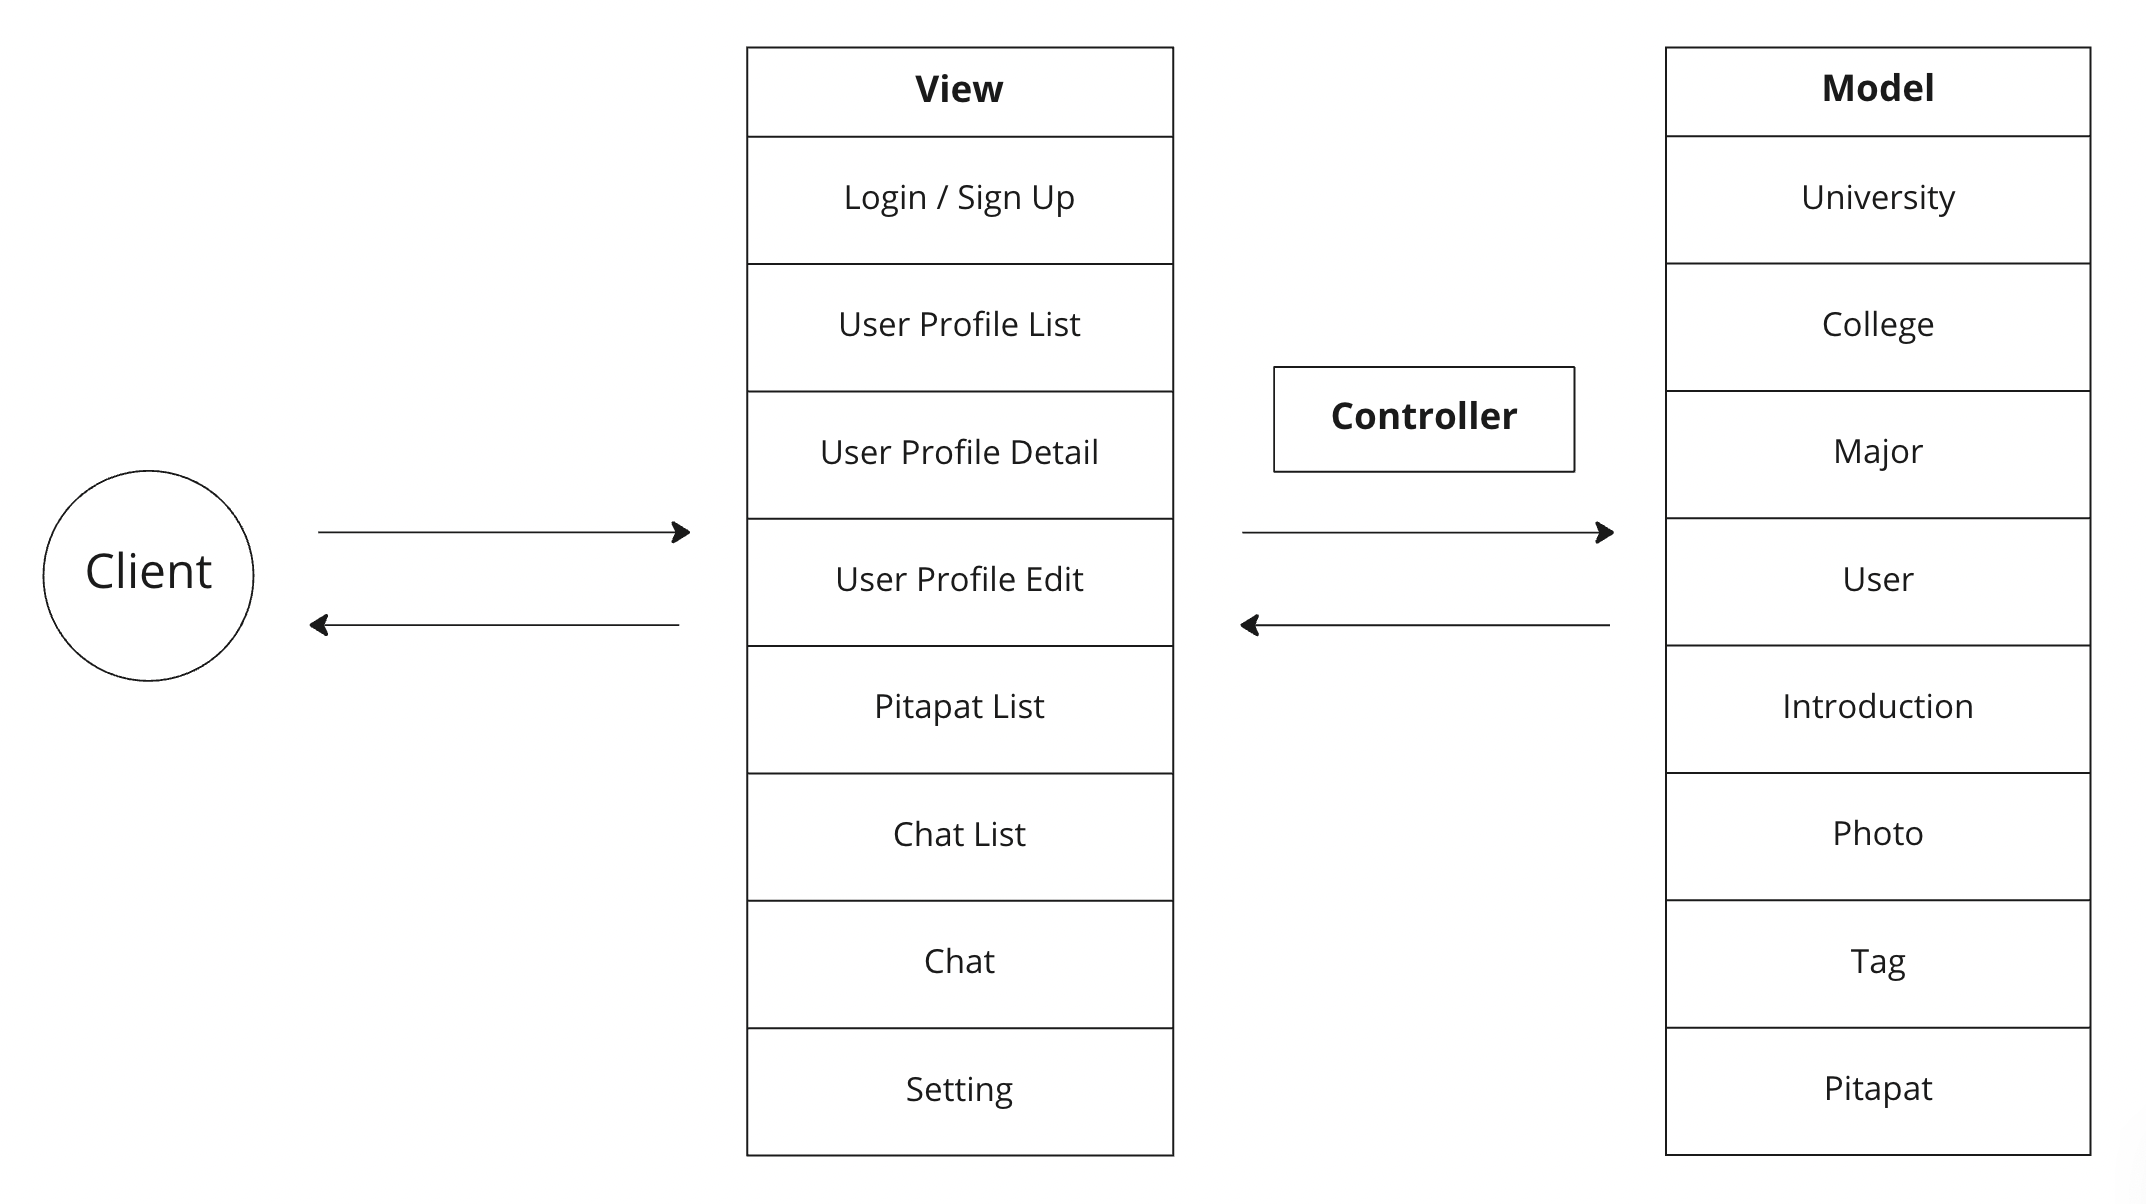
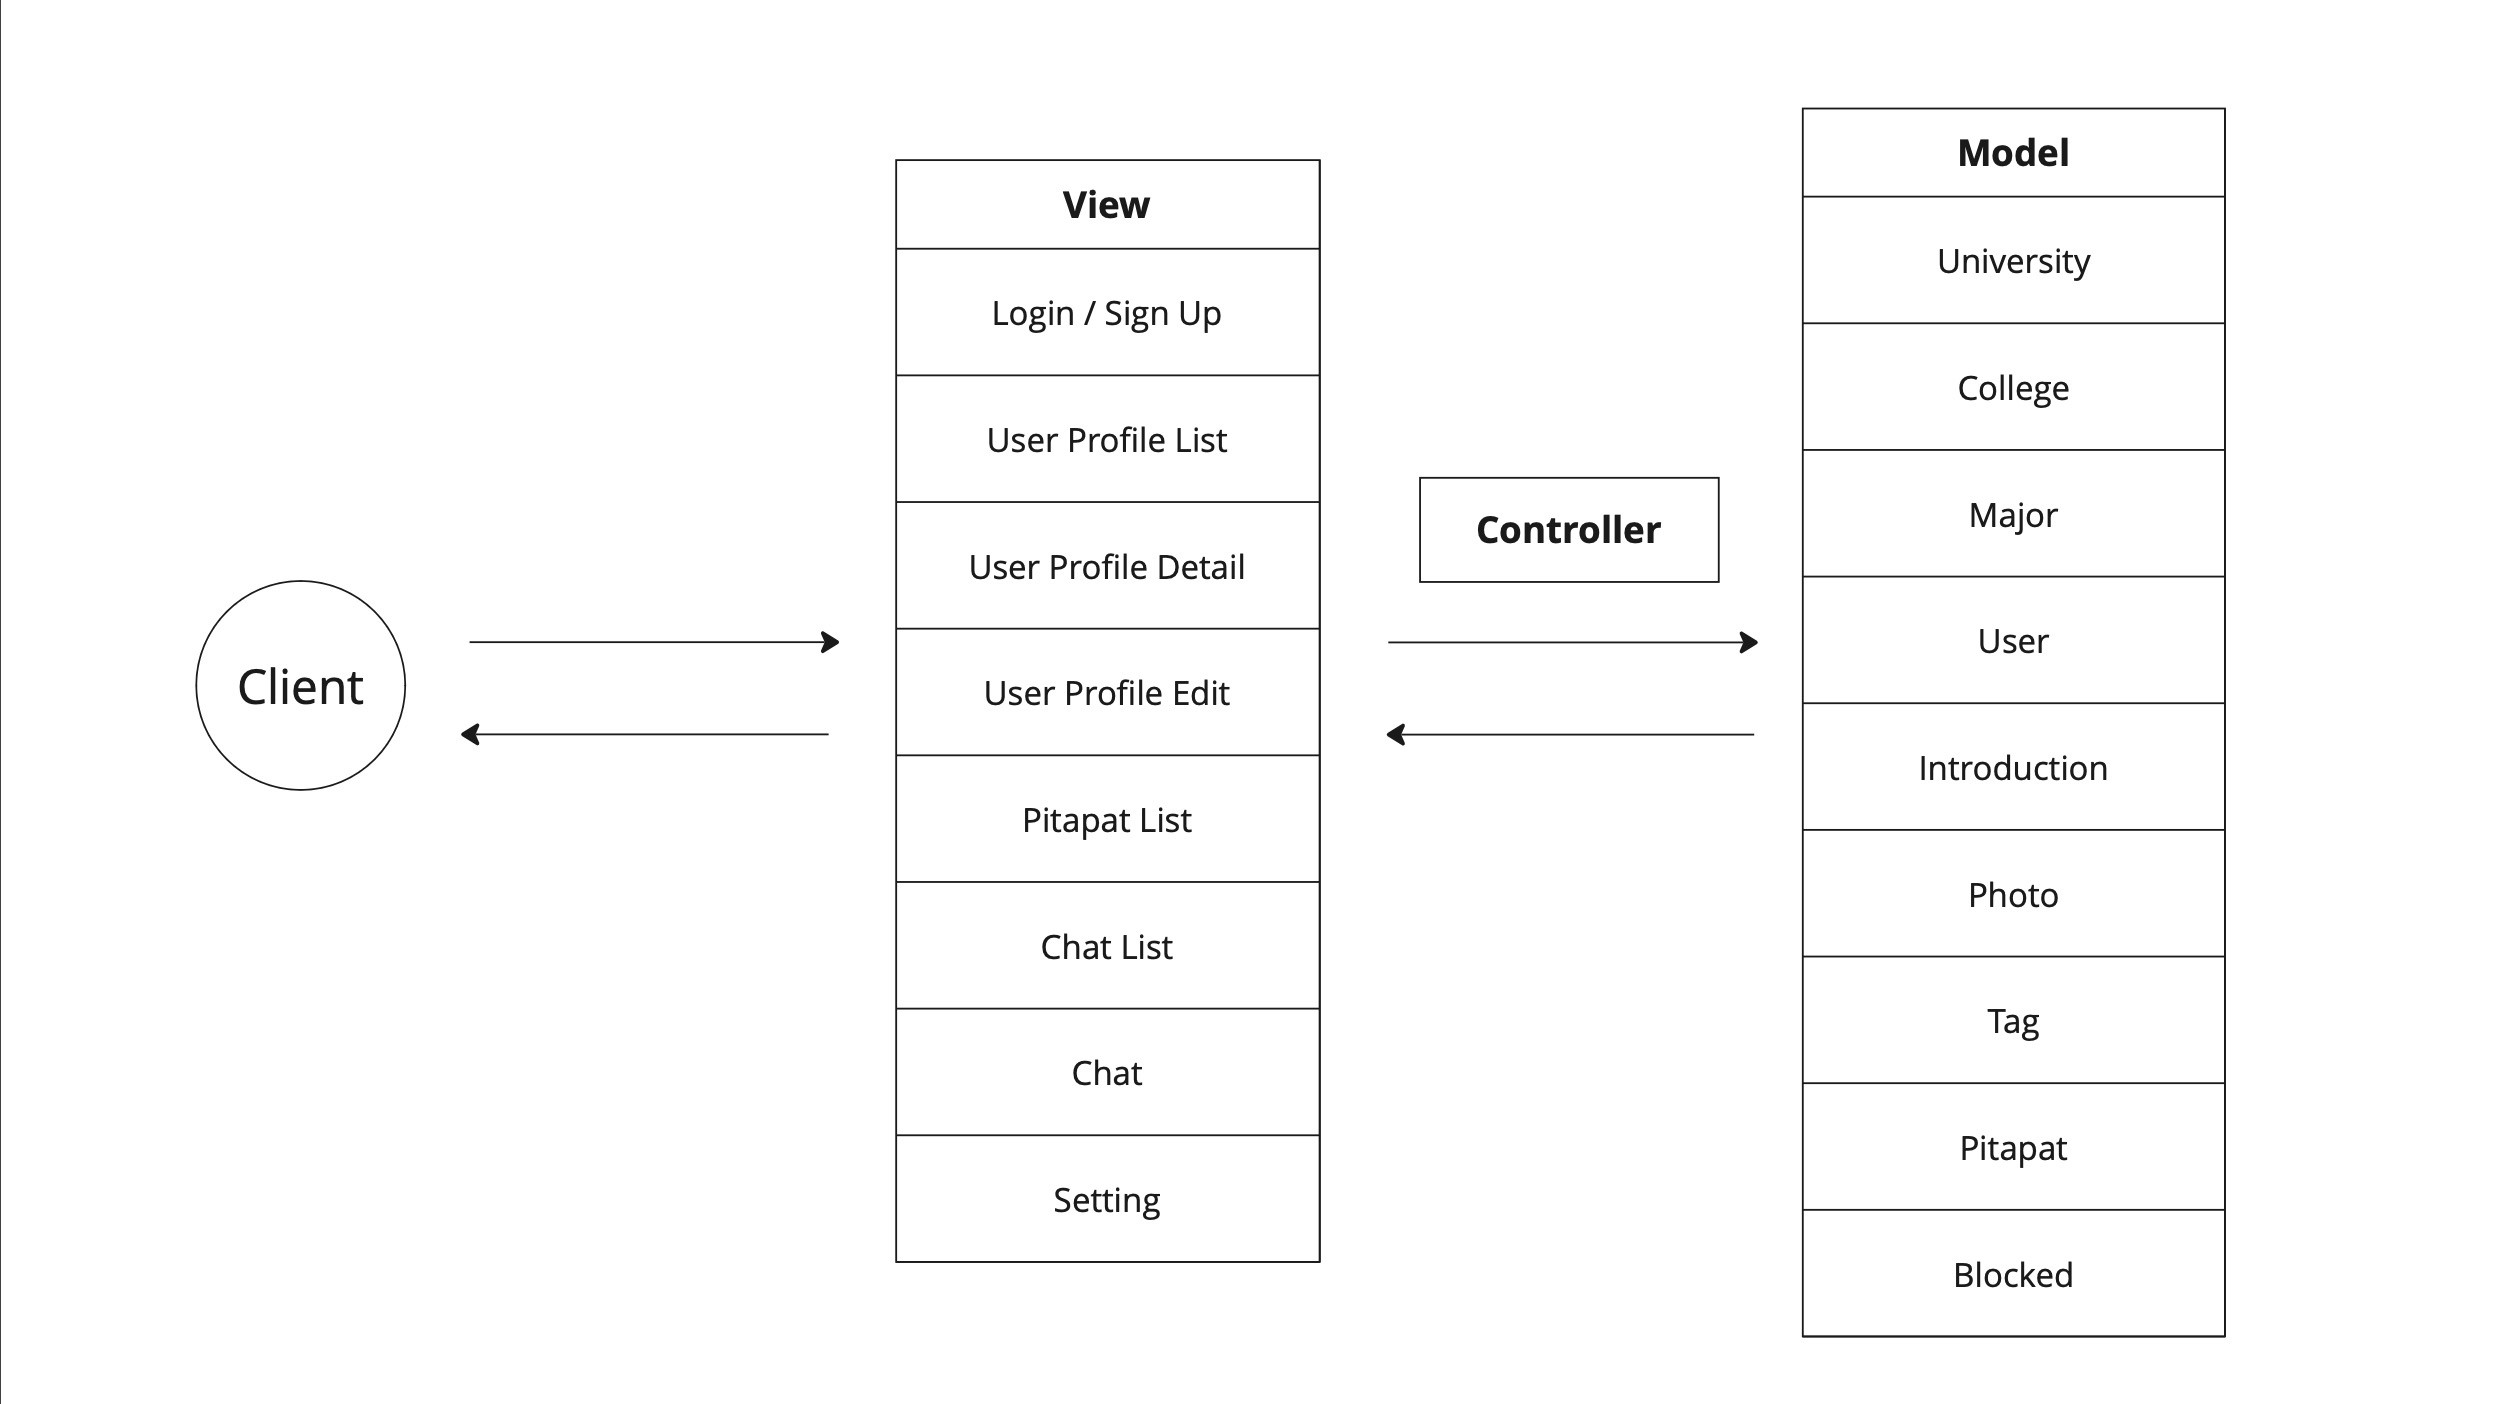
Fix: mvc.png, design-plan view

diff --git a/docs/design-plan/design-plan.md b/docs/design-plan/design-plan.md
@@ -22,16 +22,18 @@ A Line between two tables shows their relationship. Its relationship type is den
 
 #### Entity Description
 
-| Model            | Description                                                  |
-| ---------------- | ------------------------------------------------------------ |
-| **University**   | A closed community that only users in the same university can see each other. |
-| **College**      | Each university has a number of colleges.                    |
-| **Major**        | Each college in a university has a number of majors. Used as a user's tag. |
+| Model            | Description                                                                                                                                   |
+|------------------|-----------------------------------------------------------------------------------------------------------------------------------------------|
+| **University**   | A closed community that only users in the same university can see each other.                                                                 |
+| **College**      | Each university has a number of colleges.                                                                                                     |
+| **Major**        | Each college in a university has a number of majors. Used as a user's tag.                                                                    |
 | **User**         | The user that belongs to a university. Has its own introduction, photos, and tags. Can see profiles of other users and send pitapats to them. |
-| **Introduction** | Self-introduce text written by a user.                       |
-| **Photo**        | Photos showing a user's appearance.                          |
-| **Tag**          | Additional keywords that a user adds to appeal itself.       |
-| **Pitapat**      | A request for matching from a user to another user.          |
+| **Introduction** | Self-introduce text written by a user.                                                                                                        |
+| **Photo**        | Photos showing a user's appearance.                                                                                                           |
+| **Tag**          | Additional keywords that a user adds to appeal itself.                                                                                        |
+| **Pitapat**      | A request for matching from a user to another user.                                                                                           |
+| **Blocked**      | A request for blocking a pair of users                                                                                                        |
+
 
 ### View
 
@@ -69,6 +71,7 @@ The functionality and the requirement for each page are described below.
 
 - Information about the user is shown.
 - A user can click a ‘pitapat’ button to send a ‘pitapat’.
+- A user can block a specific person by clicking a 'block' button.
 - If navigated from the ‘pitapats received list’, there is a ‘Nah’ button for refusing.
 - If navigated from the ‘pitapats sent list’, a ‘pitapat’ button is already toggled and it can be canceled.
 
@@ -117,7 +120,7 @@ The functionality and the requirement for each page are described below.
 #### API
 
 | Model                   | API                             | GET                                | POST                                   | PUT                        | DELETE                   |
-| ----------------------- | ------------------------------- | ---------------------------------- | -------------------------------------- | -------------------------- | ------------------------ |
+|-------------------------| ------------------------------- | ---------------------------------- | -------------------------------------- | -------------------------- | ------------------------ |
 | -                       | `/auth/`                        | X                                  | check email authentication code        | X                          | X                        |
 | **User / Introduction** | `/user/`                        | get user list                      | create new user                        | X                          | X                        |
 |                         | `/user/login/`                  | X                                  | log in                                 | X                          | X                        |
